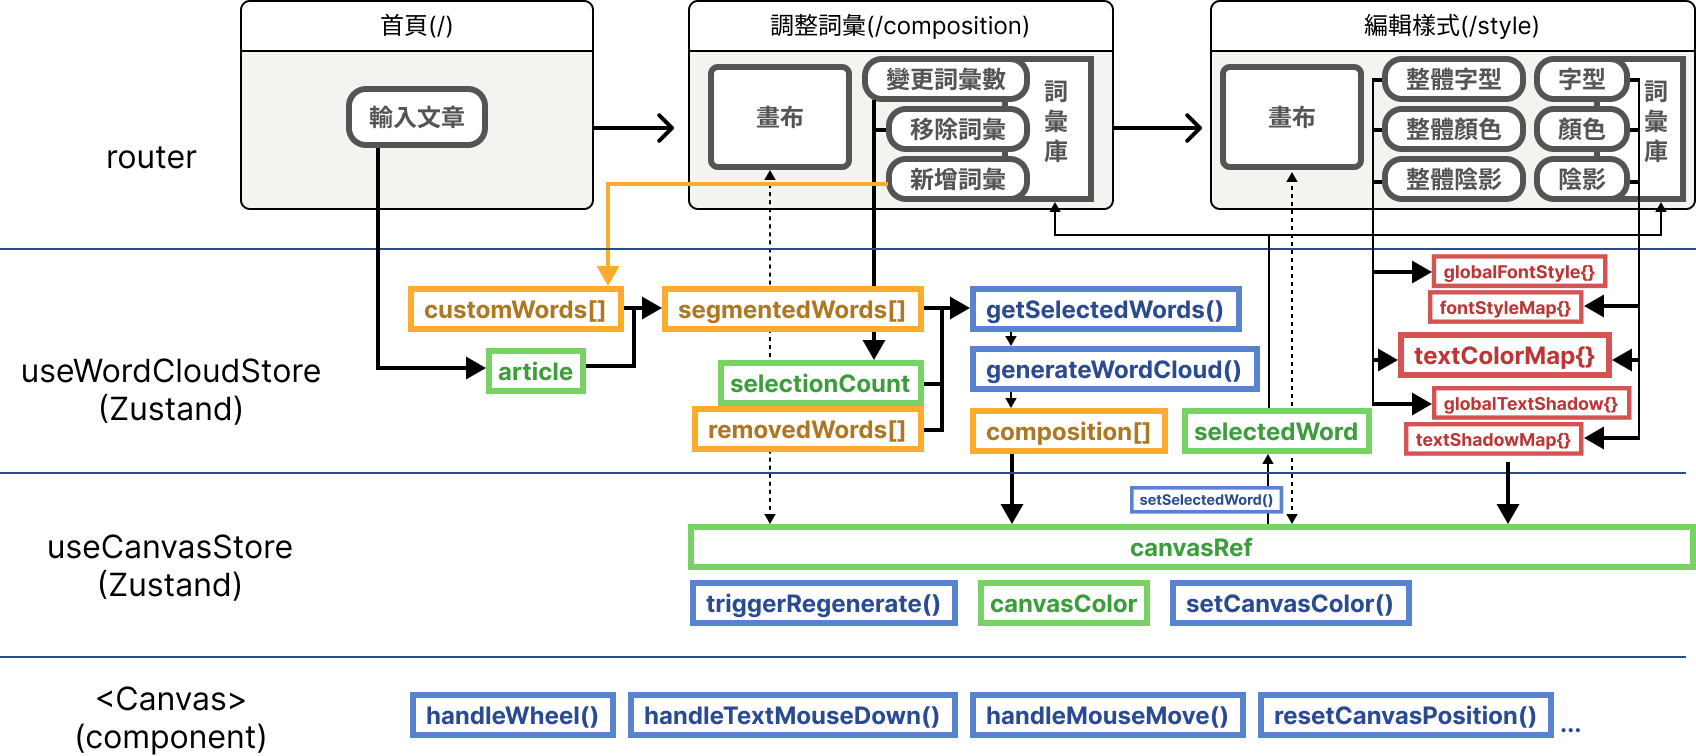
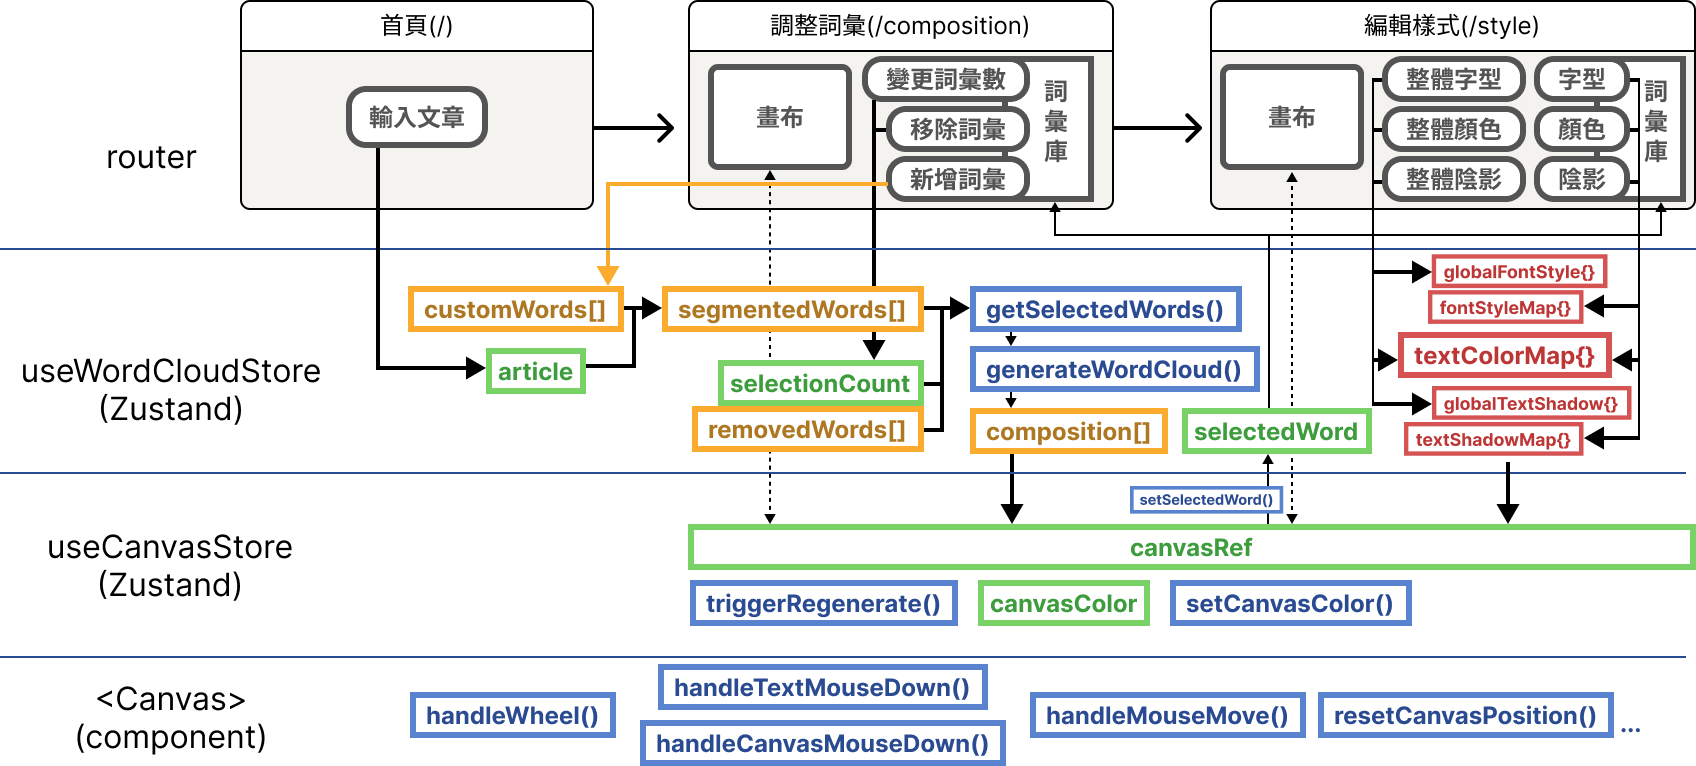
Update README.md

diff --git a/README.md b/README.md
@@ -6,7 +6,10 @@
 
 - [主要功能](#主要功能)
 - [技術堆疊](#技術堆疊)
-- [技術及功能細節](#技術及功能細節) -[核心：Zustand 狀態管理](#核心zustand-狀態管理) -[工作區](#工作區) -[畫布](#畫布)
+- [技術及功能細節](#技術及功能細節)
+  - [核心：Zustand 狀態管理](#核心zustand-狀態管理)
+  - [工作區](#工作區)
+  - [畫布](#畫布)
 - [聯絡我](#聯絡我)
 
 # 主要功能
@@ -56,32 +59,55 @@
 
 # 技術及功能細節
 
+## 文字雲生成
+
+![Generate Word Cloud](./assets/tech-detail_generateWordCloud.png)
+
+在`generateWordCloud()`中：
+
+1. 依出現次數計算每個詞彙的大小（12px-90px）
+2. 依輸入的 Canvas Component 大小建立一個`<canvas>`
+3. 對每個詞彙：
+   1. 使用`canvas.getContext("2d").measureText()`取得精確的寬高
+   2. 隨機產生半徑 `r` 以及角度 `a`
+   3. 嘗試放在畫布上，若與已放置的詞彙：
+   - 有重疊 -> 進行下一次嘗試
+   - 沒有重疊 -> 記錄此時的位置，加入已放置的詞彙
+   - 有重疊，但已嘗試 1000 次 -> 放棄嘗試，將此詞彙放置於畫布左上角
+4. 輸出文字雲結構 `composition[]`
+
 ## 核心：Zustand 狀態管理
 
 ![State Management With Zustand](./assets/tech-detail_zustand.png)
 
+- 使用`useWordCloudStore()`管理文字雲的所有狀態，以便在任何路徑或組件中取得
+- 使用`useCanvasStore()`將一些操作畫布的函式暴露給其他組件使用。
+- 針對畫布的 event handler 保留在畫布中，不暴露。
+
 ## 工作區
 
-- 重新隨機產生文字雲（<span style="color:blue">useCanvasStore.triggerRegenerate()</span>）
+- 重新隨機產生文字雲（🟦`useCanvasStore.triggerRegenerate()`）
 - 調整詞彙
-  - 調整文字雲中詞彙數量（``）
-  - 訂正或移除詞彙（``）
+  - 調整文字雲中詞彙數量（🟩`useWordCloudStore.selectionCount`）
+  - 訂正詞彙（`🟨useWordCloudStore.customWords[]`）
+  - 移除詞彙（`🟨useWordCloudStore.removedWords[]`）
 - 編輯樣式：整體編輯
-  - 字型（``）
-  - 文字顏色（``）
-  - 文字陰影（``）
+  - 字型（`🟥useWordCloudStore.globalFontStyle{}`）
+  - 文字顏色（`🟥useWordCloudStore.textColorMap{}`）
+  - 文字陰影（`🟥useWordCloudStore.globalTextShadow{}`）
 - 編輯樣式：個別編輯
-  - 字型（``）
-  - 文字顏色（``）
-  - 文字陰影（``）
+  - 字型（`🟥useWordCloudStore.fontStyleMap{}`）
+  - 文字顏色（`🟥useWordCloudStore.textColorMap{}`）
+  - 文字陰影（`🟥useWordCloudStore.textShadowMap{}`）
 
 ## 畫布
 
-- 根據滑鼠所在位置縮放（）
-- 拖曳移動詞彙（）
-- 一鍵重置縮放位置（）
-- 改變背景顏色（）
-- 與工作區詞彙編輯面板連結（）
+- 根據滑鼠所在位置縮放（`🟦handleWheel()`）
+- 拖曳移動詞彙（`🟦handleTextMouseDown()`、`🟦handleMouseMove()`）
+- 拖曳移動畫布（`🟦handleCanvasMouseDown()`、`🟦handleMouseMove()`）
+- 一鍵重置縮放位置（`🟦resetCanvasPosition()`）
+- 改變背景顏色（`🟦useCanvasStore.setCanvasColor()`）
+- 與工作區詞彙編輯面板連結（`🟦useCanvasStore.setSelectedWord()`）
 
 # 聯絡我
 
